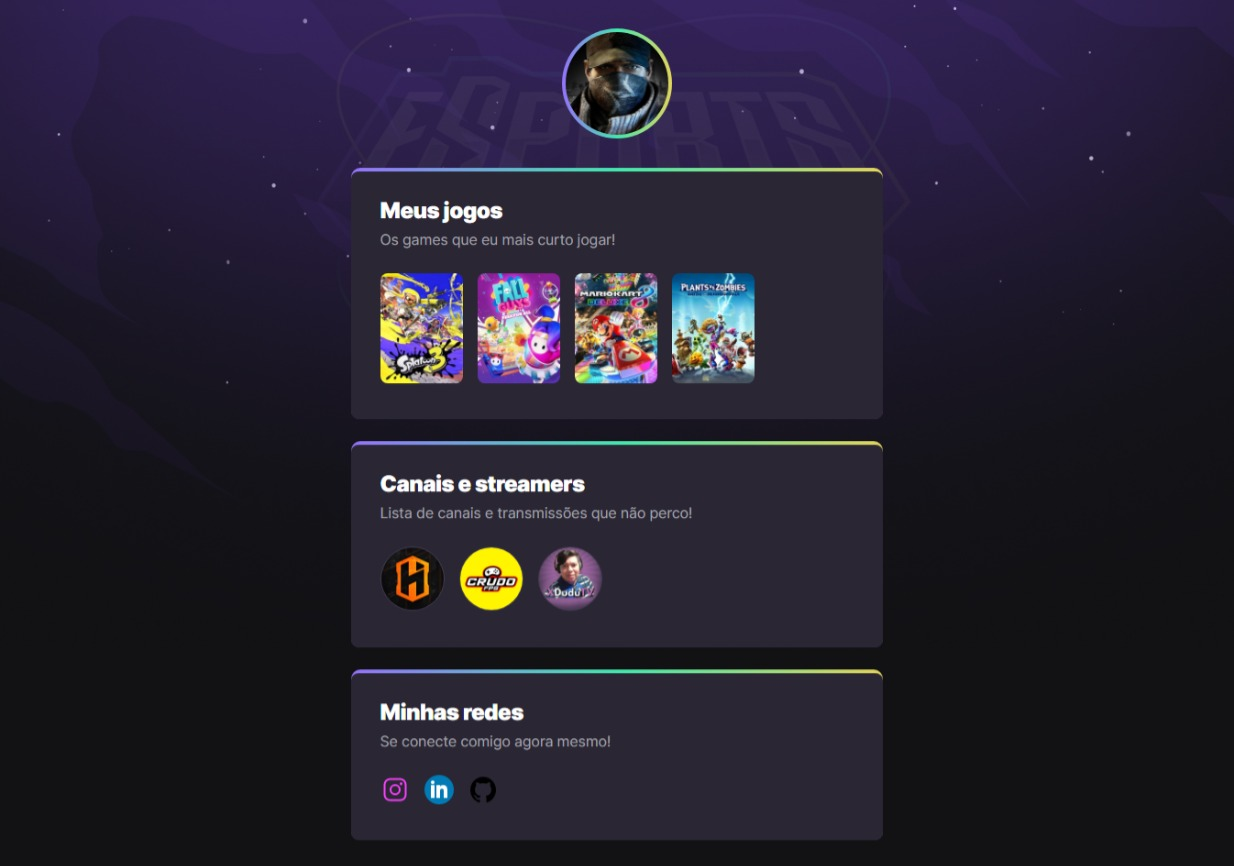
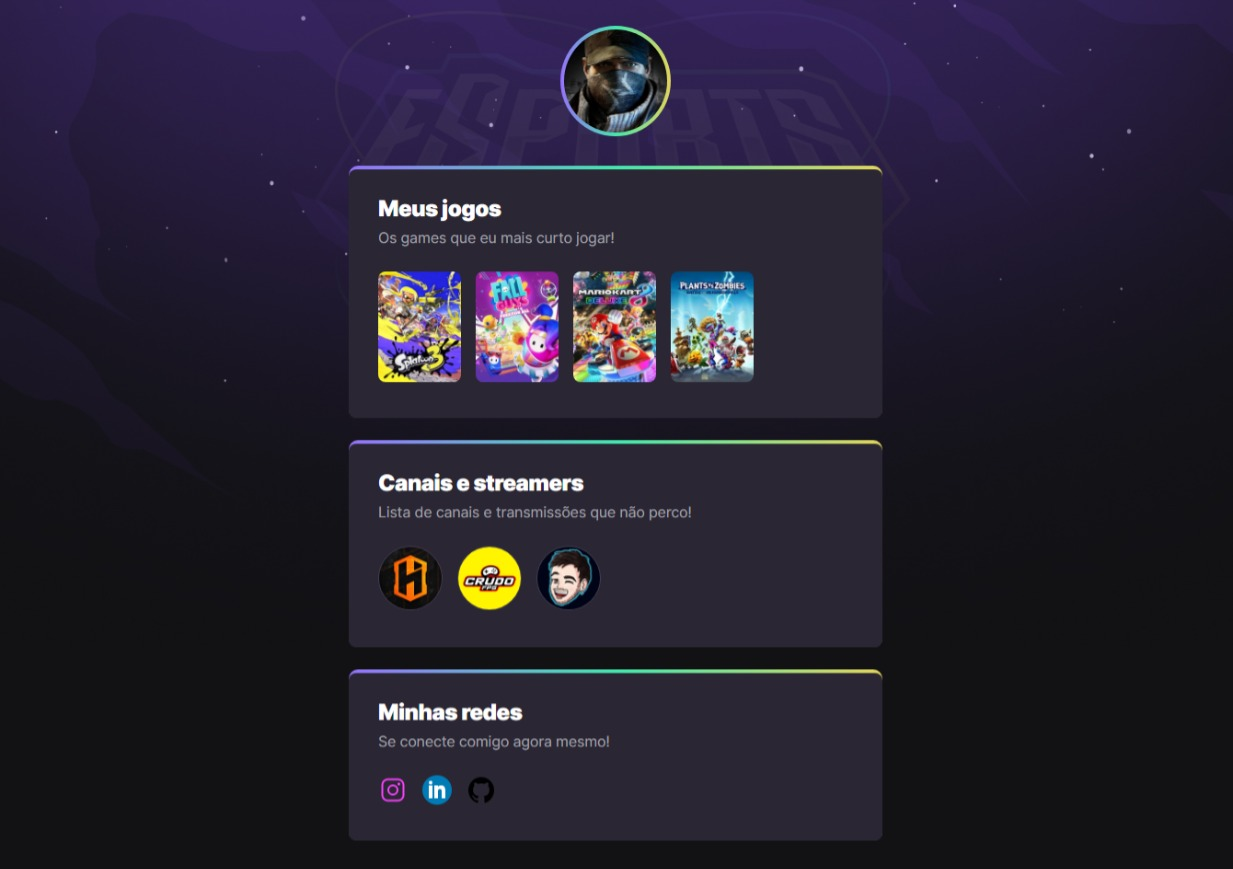
Atualizado os canais de streamers

diff --git a/index.html b/index.html
@@ -109,10 +109,10 @@
             </li>
 
             <li>
-              <a href="https://www.twitch.tv/xdudutv" target="_blank">
+              <a href="https://www.twitch.tv/spellingjoga" target="_blank">
                 <img
-                  src="https://static-cdn.jtvnw.net/jtv_user_pictures/ba862740-4b7e-4128-bd2c-1ec1d9282c0a-profile_image-150x150.png"
-                  alt="Imagem do canal XDuduTV"
+                  src="https://static-cdn.jtvnw.net/jtv_user_pictures/44b3a378-7f0c-4f91-a7e0-dc8098e8eee4-profile_image-70x70.png"
+                  alt="Imagem do canal spellingjoga"
                 />
               </a>
             </li>

diff --git a/README.md b/README.md
@@ -1,6 +1,6 @@
 # NLW eSports
 
-![preview](./images/Preview.jpeg)
+![preview](./images/preview.jpeg)
 
 > Trilha Explorer
 
